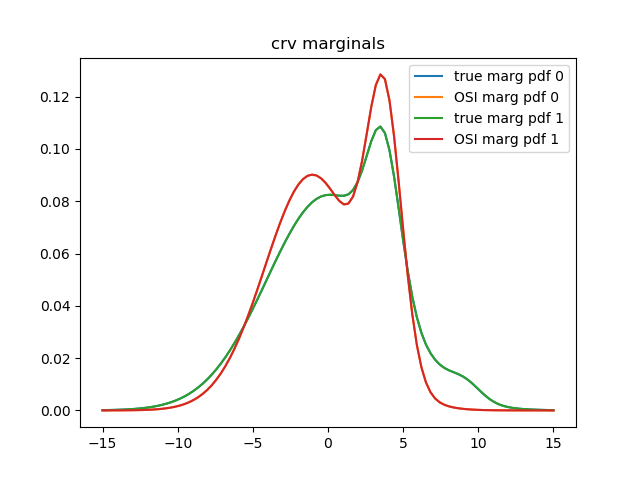
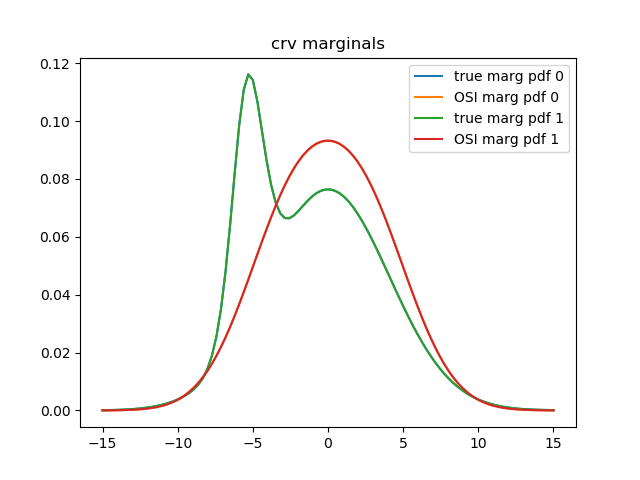
get a multimodal hybrid mln model in which EPBP seems to fail (as does OSI, which gets stuck in a local minimum with two modes collapsed into one, essentially the mean-field solution)
EPBP avg time 0.21115074699999958
OSI avg time 4.597296533000001
EPBP diff 5.238472356198834
EPBP std 5.960464477539063e-08
OSI diff 5.236689528326077
OSI std 0.007758763086515273

diff --git a/osi/serious_hybrid_mln_experiment.py b/osi/serious_hybrid_mln_experiment.py
@@ -11,7 +11,7 @@ import numpy as np
 import time
 from copy import copy
 
-seed = 0
+seed = 1
 utils.set_seed(seed)
 
 from hybrid_gaussian_mrf import HybridGaussianSampler
@@ -329,4 +329,4 @@ for name, v in time_cost.items():
     print(name, f'avg time {v}')
 for name, v in avg_diff.items():
     print(name, f'diff {v}')
-    print(name, f'std {np.sqrt(err_var[name] - v ** 2)}')
+    print(name, f'std {np.sqrt(abs(err_var[name] - v ** 2))}')  # sqrt arg can sometimes be a tiny bit negative
